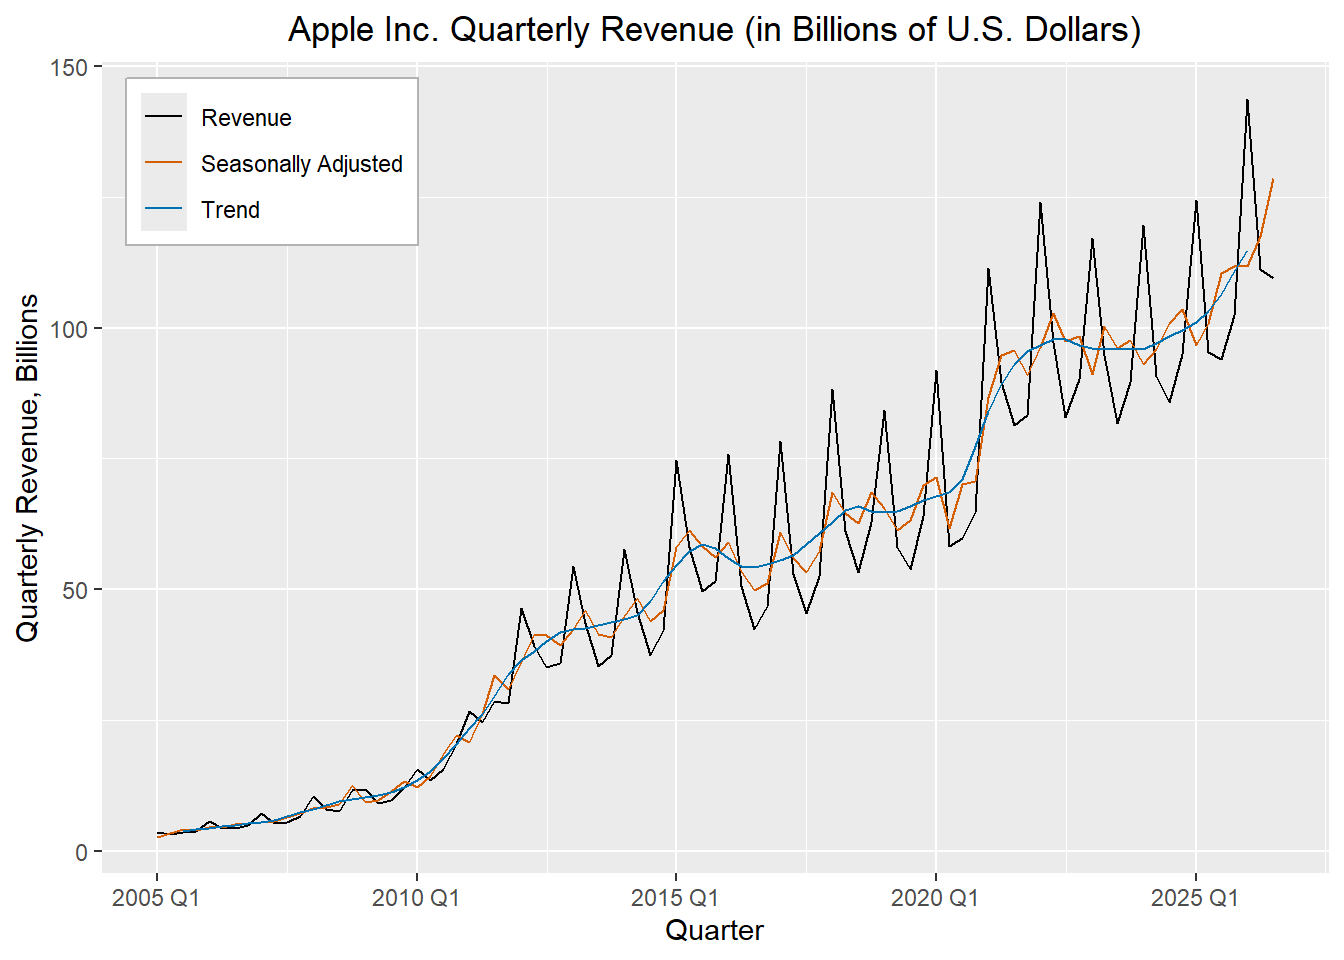
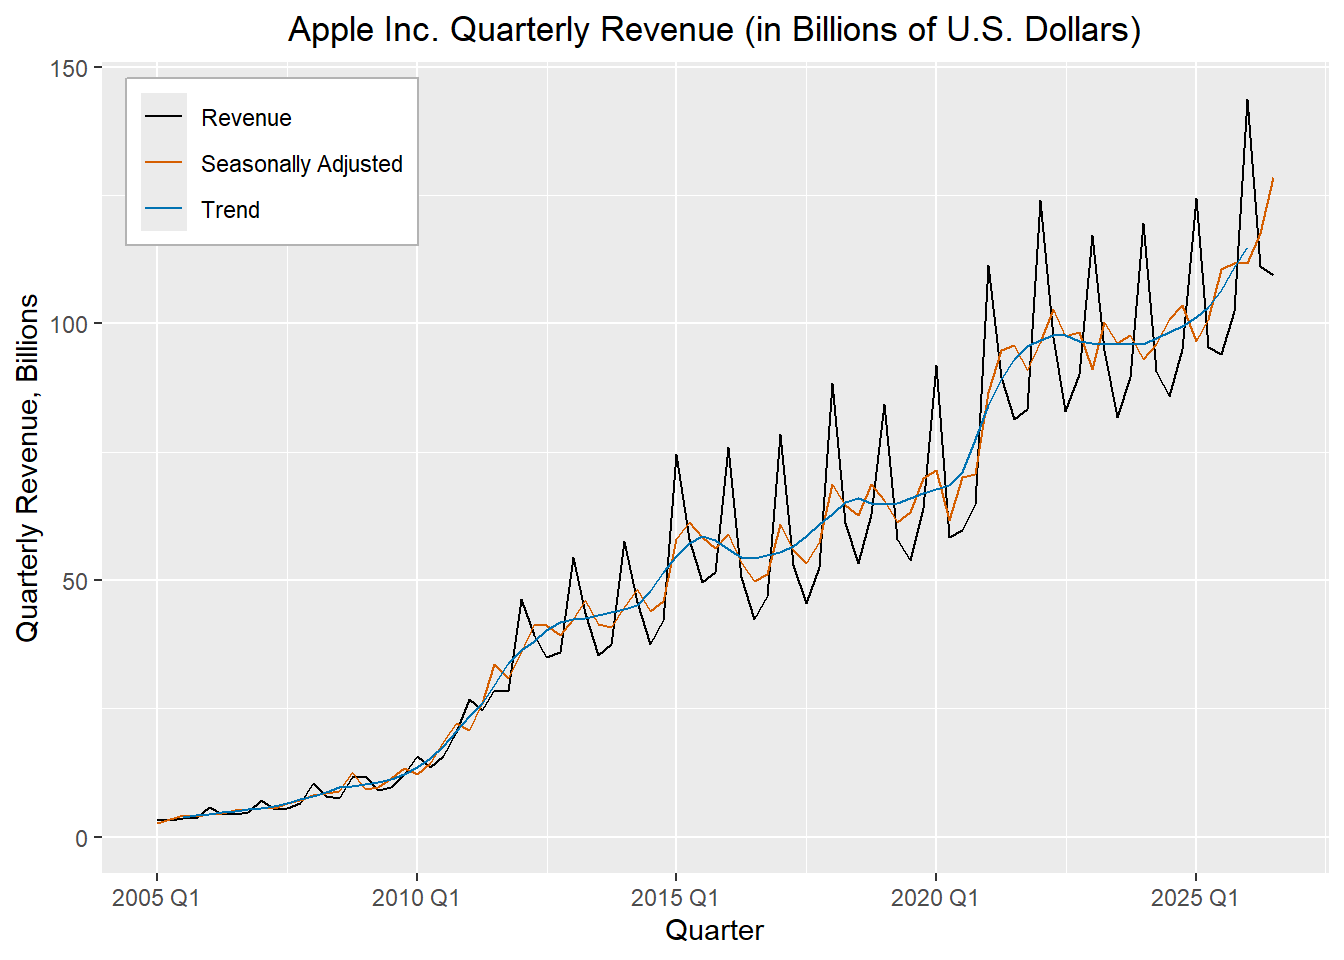
1-5 update

diff --git a/docs/chapter_1_lesson_5.html b/docs/chapter_1_lesson_5.html
@@ -2224,25 +2224,26 @@ Decompose time series into trends, seasonal variation, and residuals
 <span id="cb14-3"><a href="#cb14-3" aria-hidden="true" tabindex="-1"></a>  <span class="fu">geom_line</span>(<span class="fu">aes</span>(<span class="at">y =</span> revenue, <span class="at">color =</span> <span class="st">"Revenue"</span>)) <span class="sc">+</span></span>
 <span id="cb14-4"><a href="#cb14-4" aria-hidden="true" tabindex="-1"></a>  <span class="fu">geom_line</span>(<span class="fu">aes</span>(<span class="at">y =</span> season_adjust, <span class="at">color =</span> <span class="st">"Seasonally Adjusted"</span>)) <span class="sc">+</span></span>
 <span id="cb14-5"><a href="#cb14-5" aria-hidden="true" tabindex="-1"></a>  <span class="fu">geom_line</span>(<span class="fu">aes</span>(<span class="at">y =</span> trend, <span class="at">color =</span> <span class="st">"Trend"</span>)) <span class="sc">+</span></span>
-<span id="cb14-6"><a href="#cb14-6" aria-hidden="true" tabindex="-1"></a>  <span class="fu">scale_color_manual</span>(</span>
-<span id="cb14-7"><a href="#cb14-7" aria-hidden="true" tabindex="-1"></a>    <span class="at">name =</span> <span class="cn">NULL</span>,</span>
-<span id="cb14-8"><a href="#cb14-8" aria-hidden="true" tabindex="-1"></a>    <span class="at">values =</span> <span class="fu">c</span>(</span>
-<span id="cb14-9"><a href="#cb14-9" aria-hidden="true" tabindex="-1"></a>      <span class="st">"Revenue"</span> <span class="ot">=</span> <span class="st">"black"</span>,</span>
-<span id="cb14-10"><a href="#cb14-10" aria-hidden="true" tabindex="-1"></a>      <span class="st">"Seasonally Adjusted"</span> <span class="ot">=</span> <span class="st">"#D55E00"</span>,</span>
-<span id="cb14-11"><a href="#cb14-11" aria-hidden="true" tabindex="-1"></a>      <span class="st">"Trend"</span> <span class="ot">=</span> <span class="st">"#0072B2"</span></span>
-<span id="cb14-12"><a href="#cb14-12" aria-hidden="true" tabindex="-1"></a>    )</span>
-<span id="cb14-13"><a href="#cb14-13" aria-hidden="true" tabindex="-1"></a>  ) <span class="sc">+</span></span>
-<span id="cb14-14"><a href="#cb14-14" aria-hidden="true" tabindex="-1"></a>  <span class="fu">labs</span>(</span>
-<span id="cb14-15"><a href="#cb14-15" aria-hidden="true" tabindex="-1"></a>    <span class="at">x =</span> <span class="st">"Quarter"</span>,</span>
-<span id="cb14-16"><a href="#cb14-16" aria-hidden="true" tabindex="-1"></a>    <span class="at">y =</span> <span class="st">"Quarterly Revenue, Billions"</span>,</span>
-<span id="cb14-17"><a href="#cb14-17" aria-hidden="true" tabindex="-1"></a>    <span class="at">title =</span> <span class="st">"Apple Inc. Quarterly Revenue (in Billions of U.S. Dollars)"</span></span>
-<span id="cb14-18"><a href="#cb14-18" aria-hidden="true" tabindex="-1"></a>  ) <span class="sc">+</span></span>
-<span id="cb14-19"><a href="#cb14-19" aria-hidden="true" tabindex="-1"></a>  <span class="fu">theme</span>(</span>
-<span id="cb14-20"><a href="#cb14-20" aria-hidden="true" tabindex="-1"></a>    <span class="at">plot.title =</span> <span class="fu">element_text</span>(<span class="at">hjust =</span> <span class="fl">0.5</span>),</span>
-<span id="cb14-21"><a href="#cb14-21" aria-hidden="true" tabindex="-1"></a>    <span class="at">legend.position =</span> <span class="fu">c</span>(<span class="fl">0.02</span>, <span class="fl">0.98</span>),</span>
-<span id="cb14-22"><a href="#cb14-22" aria-hidden="true" tabindex="-1"></a>    <span class="at">legend.justification =</span> <span class="fu">c</span>(<span class="dv">0</span>, <span class="dv">1</span>),</span>
-<span id="cb14-23"><a href="#cb14-23" aria-hidden="true" tabindex="-1"></a>    <span class="at">legend.background =</span> <span class="fu">element_rect</span>(<span class="at">fill =</span> <span class="st">"white"</span>, <span class="at">color =</span> <span class="st">"grey70"</span>)</span>
-<span id="cb14-24"><a href="#cb14-24" aria-hidden="true" tabindex="-1"></a>  )</span></code></pre></div><button title="Copy to Clipboard" class="code-copy-button"><i class="bi"></i></button></div>
+<span id="cb14-6"><a href="#cb14-6" aria-hidden="true" tabindex="-1"></a>  <span class="fu">expand_limits</span>(<span class="at">y =</span> <span class="dv">0</span>) <span class="sc">+</span></span>
+<span id="cb14-7"><a href="#cb14-7" aria-hidden="true" tabindex="-1"></a>  <span class="fu">scale_color_manual</span>(</span>
+<span id="cb14-8"><a href="#cb14-8" aria-hidden="true" tabindex="-1"></a>    <span class="at">name =</span> <span class="cn">NULL</span>,</span>
+<span id="cb14-9"><a href="#cb14-9" aria-hidden="true" tabindex="-1"></a>    <span class="at">values =</span> <span class="fu">c</span>(</span>
+<span id="cb14-10"><a href="#cb14-10" aria-hidden="true" tabindex="-1"></a>      <span class="st">"Revenue"</span> <span class="ot">=</span> <span class="st">"black"</span>,</span>
+<span id="cb14-11"><a href="#cb14-11" aria-hidden="true" tabindex="-1"></a>      <span class="st">"Seasonally Adjusted"</span> <span class="ot">=</span> <span class="st">"#D55E00"</span>,</span>
+<span id="cb14-12"><a href="#cb14-12" aria-hidden="true" tabindex="-1"></a>      <span class="st">"Trend"</span> <span class="ot">=</span> <span class="st">"#0072B2"</span></span>
+<span id="cb14-13"><a href="#cb14-13" aria-hidden="true" tabindex="-1"></a>    )</span>
+<span id="cb14-14"><a href="#cb14-14" aria-hidden="true" tabindex="-1"></a>  ) <span class="sc">+</span></span>
+<span id="cb14-15"><a href="#cb14-15" aria-hidden="true" tabindex="-1"></a>  <span class="fu">labs</span>(</span>
+<span id="cb14-16"><a href="#cb14-16" aria-hidden="true" tabindex="-1"></a>    <span class="at">x =</span> <span class="st">"Quarter"</span>,</span>
+<span id="cb14-17"><a href="#cb14-17" aria-hidden="true" tabindex="-1"></a>    <span class="at">y =</span> <span class="st">"Quarterly Revenue, Billions"</span>,</span>
+<span id="cb14-18"><a href="#cb14-18" aria-hidden="true" tabindex="-1"></a>    <span class="at">title =</span> <span class="st">"Apple Inc. Quarterly Revenue (in Billions of U.S. Dollars)"</span></span>
+<span id="cb14-19"><a href="#cb14-19" aria-hidden="true" tabindex="-1"></a>  ) <span class="sc">+</span></span>
+<span id="cb14-20"><a href="#cb14-20" aria-hidden="true" tabindex="-1"></a>  <span class="fu">theme</span>(</span>
+<span id="cb14-21"><a href="#cb14-21" aria-hidden="true" tabindex="-1"></a>    <span class="at">plot.title =</span> <span class="fu">element_text</span>(<span class="at">hjust =</span> <span class="fl">0.5</span>),</span>
+<span id="cb14-22"><a href="#cb14-22" aria-hidden="true" tabindex="-1"></a>    <span class="at">legend.position =</span> <span class="fu">c</span>(<span class="fl">0.02</span>, <span class="fl">0.98</span>),</span>
+<span id="cb14-23"><a href="#cb14-23" aria-hidden="true" tabindex="-1"></a>    <span class="at">legend.justification =</span> <span class="fu">c</span>(<span class="dv">0</span>, <span class="dv">1</span>),</span>
+<span id="cb14-24"><a href="#cb14-24" aria-hidden="true" tabindex="-1"></a>    <span class="at">legend.background =</span> <span class="fu">element_rect</span>(<span class="at">fill =</span> <span class="st">"white"</span>, <span class="at">color =</span> <span class="st">"grey70"</span>)</span>
+<span id="cb14-25"><a href="#cb14-25" aria-hidden="true" tabindex="-1"></a>  )</span></code></pre></div><button title="Copy to Clipboard" class="code-copy-button"><i class="bi"></i></button></div>
 </details>
 <div class="cell-output-display">
 <div>
@@ -2264,25 +2265,26 @@ Decompose time series into trends, seasonal variation, and residuals
 <span id="cb15-4"><a href="#cb15-4" aria-hidden="true" tabindex="-1"></a>  <span class="fu">geom_line</span>(<span class="fu">aes</span>(<span class="at">y =</span> revenue, <span class="at">color =</span> <span class="st">"Revenue"</span>)) <span class="sc">+</span></span>
 <span id="cb15-5"><a href="#cb15-5" aria-hidden="true" tabindex="-1"></a>  <span class="fu">geom_line</span>(<span class="fu">aes</span>(<span class="at">y =</span> season_adjust, <span class="at">color =</span> <span class="st">"Seasonally Adjusted"</span>)) <span class="sc">+</span></span>
 <span id="cb15-6"><a href="#cb15-6" aria-hidden="true" tabindex="-1"></a>  <span class="fu">geom_line</span>(<span class="fu">aes</span>(<span class="at">y =</span> trend, <span class="at">color =</span> <span class="st">"Trend"</span>)) <span class="sc">+</span></span>
-<span id="cb15-7"><a href="#cb15-7" aria-hidden="true" tabindex="-1"></a>  <span class="fu">scale_color_manual</span>(</span>
-<span id="cb15-8"><a href="#cb15-8" aria-hidden="true" tabindex="-1"></a>    <span class="at">name =</span> <span class="cn">NULL</span>,</span>
-<span id="cb15-9"><a href="#cb15-9" aria-hidden="true" tabindex="-1"></a>    <span class="at">values =</span> <span class="fu">c</span>(</span>
-<span id="cb15-10"><a href="#cb15-10" aria-hidden="true" tabindex="-1"></a>      <span class="st">"Revenue"</span> <span class="ot">=</span> <span class="st">"black"</span>,</span>
-<span id="cb15-11"><a href="#cb15-11" aria-hidden="true" tabindex="-1"></a>      <span class="st">"Seasonally Adjusted"</span> <span class="ot">=</span> <span class="st">"#D55E00"</span>,</span>
-<span id="cb15-12"><a href="#cb15-12" aria-hidden="true" tabindex="-1"></a>      <span class="st">"Trend"</span> <span class="ot">=</span> <span class="st">"#0072B2"</span></span>
-<span id="cb15-13"><a href="#cb15-13" aria-hidden="true" tabindex="-1"></a>    )</span>
-<span id="cb15-14"><a href="#cb15-14" aria-hidden="true" tabindex="-1"></a>  ) <span class="sc">+</span></span>
-<span id="cb15-15"><a href="#cb15-15" aria-hidden="true" tabindex="-1"></a>  <span class="fu">labs</span>(</span>
-<span id="cb15-16"><a href="#cb15-16" aria-hidden="true" tabindex="-1"></a>    <span class="at">x =</span> <span class="st">"Quarter"</span>,</span>
-<span id="cb15-17"><a href="#cb15-17" aria-hidden="true" tabindex="-1"></a>    <span class="at">y =</span> <span class="st">"Quarterly Revenue, Billions"</span>,</span>
-<span id="cb15-18"><a href="#cb15-18" aria-hidden="true" tabindex="-1"></a>    <span class="at">title =</span> <span class="st">"Apple Inc. Quarterly Revenue (in Billions of U.S. Dollars)"</span></span>
-<span id="cb15-19"><a href="#cb15-19" aria-hidden="true" tabindex="-1"></a>  ) <span class="sc">+</span></span>
-<span id="cb15-20"><a href="#cb15-20" aria-hidden="true" tabindex="-1"></a>  <span class="fu">theme</span>(</span>
-<span id="cb15-21"><a href="#cb15-21" aria-hidden="true" tabindex="-1"></a>    <span class="at">plot.title =</span> <span class="fu">element_text</span>(<span class="at">hjust =</span> <span class="fl">0.5</span>),</span>
-<span id="cb15-22"><a href="#cb15-22" aria-hidden="true" tabindex="-1"></a>    <span class="at">legend.position =</span> <span class="fu">c</span>(<span class="fl">0.02</span>, <span class="fl">0.98</span>),</span>
-<span id="cb15-23"><a href="#cb15-23" aria-hidden="true" tabindex="-1"></a>    <span class="at">legend.justification =</span> <span class="fu">c</span>(<span class="dv">0</span>, <span class="dv">1</span>),</span>
-<span id="cb15-24"><a href="#cb15-24" aria-hidden="true" tabindex="-1"></a>    <span class="at">legend.background =</span> <span class="fu">element_rect</span>(<span class="at">fill =</span> <span class="st">"white"</span>, <span class="at">color =</span> <span class="st">"grey70"</span>)</span>
-<span id="cb15-25"><a href="#cb15-25" aria-hidden="true" tabindex="-1"></a>  )</span></code></pre></div><button title="Copy to Clipboard" class="code-copy-button"><i class="bi"></i></button></div>
+<span id="cb15-7"><a href="#cb15-7" aria-hidden="true" tabindex="-1"></a>  <span class="fu">expand_limits</span>(<span class="at">y =</span> <span class="dv">0</span>) <span class="sc">+</span></span>
+<span id="cb15-8"><a href="#cb15-8" aria-hidden="true" tabindex="-1"></a>  <span class="fu">scale_color_manual</span>(</span>
+<span id="cb15-9"><a href="#cb15-9" aria-hidden="true" tabindex="-1"></a>    <span class="at">name =</span> <span class="cn">NULL</span>,</span>
+<span id="cb15-10"><a href="#cb15-10" aria-hidden="true" tabindex="-1"></a>    <span class="at">values =</span> <span class="fu">c</span>(</span>
+<span id="cb15-11"><a href="#cb15-11" aria-hidden="true" tabindex="-1"></a>      <span class="st">"Revenue"</span> <span class="ot">=</span> <span class="st">"black"</span>,</span>
+<span id="cb15-12"><a href="#cb15-12" aria-hidden="true" tabindex="-1"></a>      <span class="st">"Seasonally Adjusted"</span> <span class="ot">=</span> <span class="st">"#D55E00"</span>,</span>
+<span id="cb15-13"><a href="#cb15-13" aria-hidden="true" tabindex="-1"></a>      <span class="st">"Trend"</span> <span class="ot">=</span> <span class="st">"#0072B2"</span></span>
+<span id="cb15-14"><a href="#cb15-14" aria-hidden="true" tabindex="-1"></a>    )</span>
+<span id="cb15-15"><a href="#cb15-15" aria-hidden="true" tabindex="-1"></a>  ) <span class="sc">+</span></span>
+<span id="cb15-16"><a href="#cb15-16" aria-hidden="true" tabindex="-1"></a>  <span class="fu">labs</span>(</span>
+<span id="cb15-17"><a href="#cb15-17" aria-hidden="true" tabindex="-1"></a>    <span class="at">x =</span> <span class="st">"Quarter"</span>,</span>
+<span id="cb15-18"><a href="#cb15-18" aria-hidden="true" tabindex="-1"></a>    <span class="at">y =</span> <span class="st">"Quarterly Revenue, Billions"</span>,</span>
+<span id="cb15-19"><a href="#cb15-19" aria-hidden="true" tabindex="-1"></a>    <span class="at">title =</span> <span class="st">"Apple Inc. Quarterly Revenue (in Billions of U.S. Dollars)"</span></span>
+<span id="cb15-20"><a href="#cb15-20" aria-hidden="true" tabindex="-1"></a>  ) <span class="sc">+</span></span>
+<span id="cb15-21"><a href="#cb15-21" aria-hidden="true" tabindex="-1"></a>  <span class="fu">theme</span>(</span>
+<span id="cb15-22"><a href="#cb15-22" aria-hidden="true" tabindex="-1"></a>    <span class="at">plot.title =</span> <span class="fu">element_text</span>(<span class="at">hjust =</span> <span class="fl">0.5</span>),</span>
+<span id="cb15-23"><a href="#cb15-23" aria-hidden="true" tabindex="-1"></a>    <span class="at">legend.position =</span> <span class="fu">c</span>(<span class="fl">0.02</span>, <span class="fl">0.98</span>),</span>
+<span id="cb15-24"><a href="#cb15-24" aria-hidden="true" tabindex="-1"></a>    <span class="at">legend.justification =</span> <span class="fu">c</span>(<span class="dv">0</span>, <span class="dv">1</span>),</span>
+<span id="cb15-25"><a href="#cb15-25" aria-hidden="true" tabindex="-1"></a>    <span class="at">legend.background =</span> <span class="fu">element_rect</span>(<span class="at">fill =</span> <span class="st">"white"</span>, <span class="at">color =</span> <span class="st">"grey70"</span>)</span>
+<span id="cb15-26"><a href="#cb15-26" aria-hidden="true" tabindex="-1"></a>  )</span></code></pre></div><button title="Copy to Clipboard" class="code-copy-button"><i class="bi"></i></button></div>
 </details>
 <div class="cell-output-display">
 <div>
